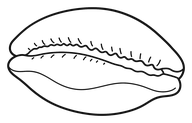
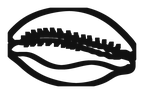
beAuthentik : traits du cauri épaissis comme les icônes voisines (version 4, lot 44)

diff --git a/frontend/src/version.js b/frontend/src/version.js
@@ -20,10 +20,10 @@
 // ============================================================================
 
 // Compteur de déploiements : +1 à chaque déploiement.
-export const VERSION = 3;
+export const VERSION = 4;
 
 // Numéro de la PR GitHub fusionnée pour ce déploiement.
-export const LOT = 43;
+export const LOT = 44;
 
 // Hash court du commit compilé (RENDER_GIT_COMMIT sur Render, sinon `git`),
 // injecté par vite.config.js. "dev" si introuvable (ex. hors dépôt git).
